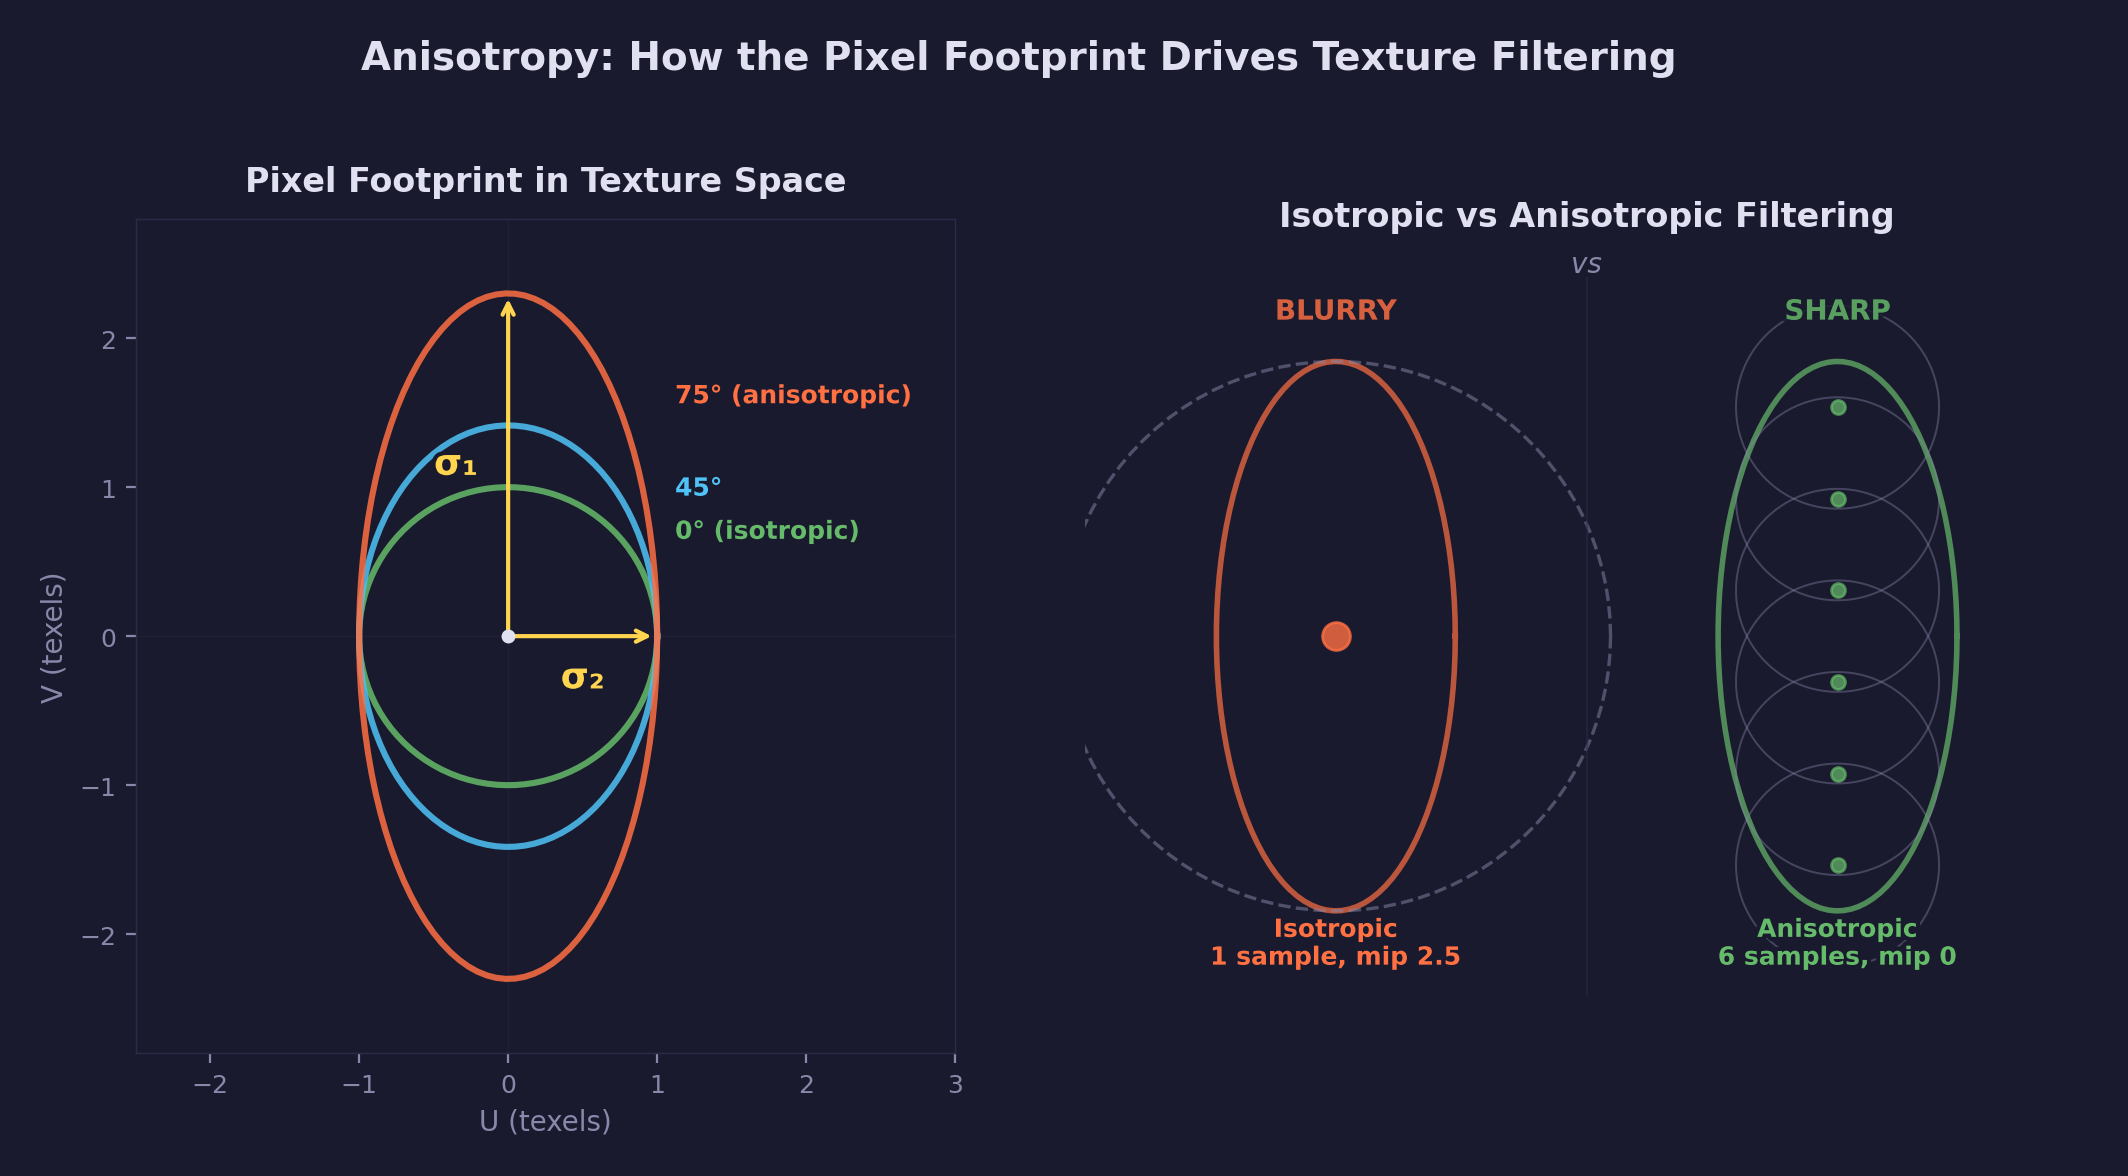
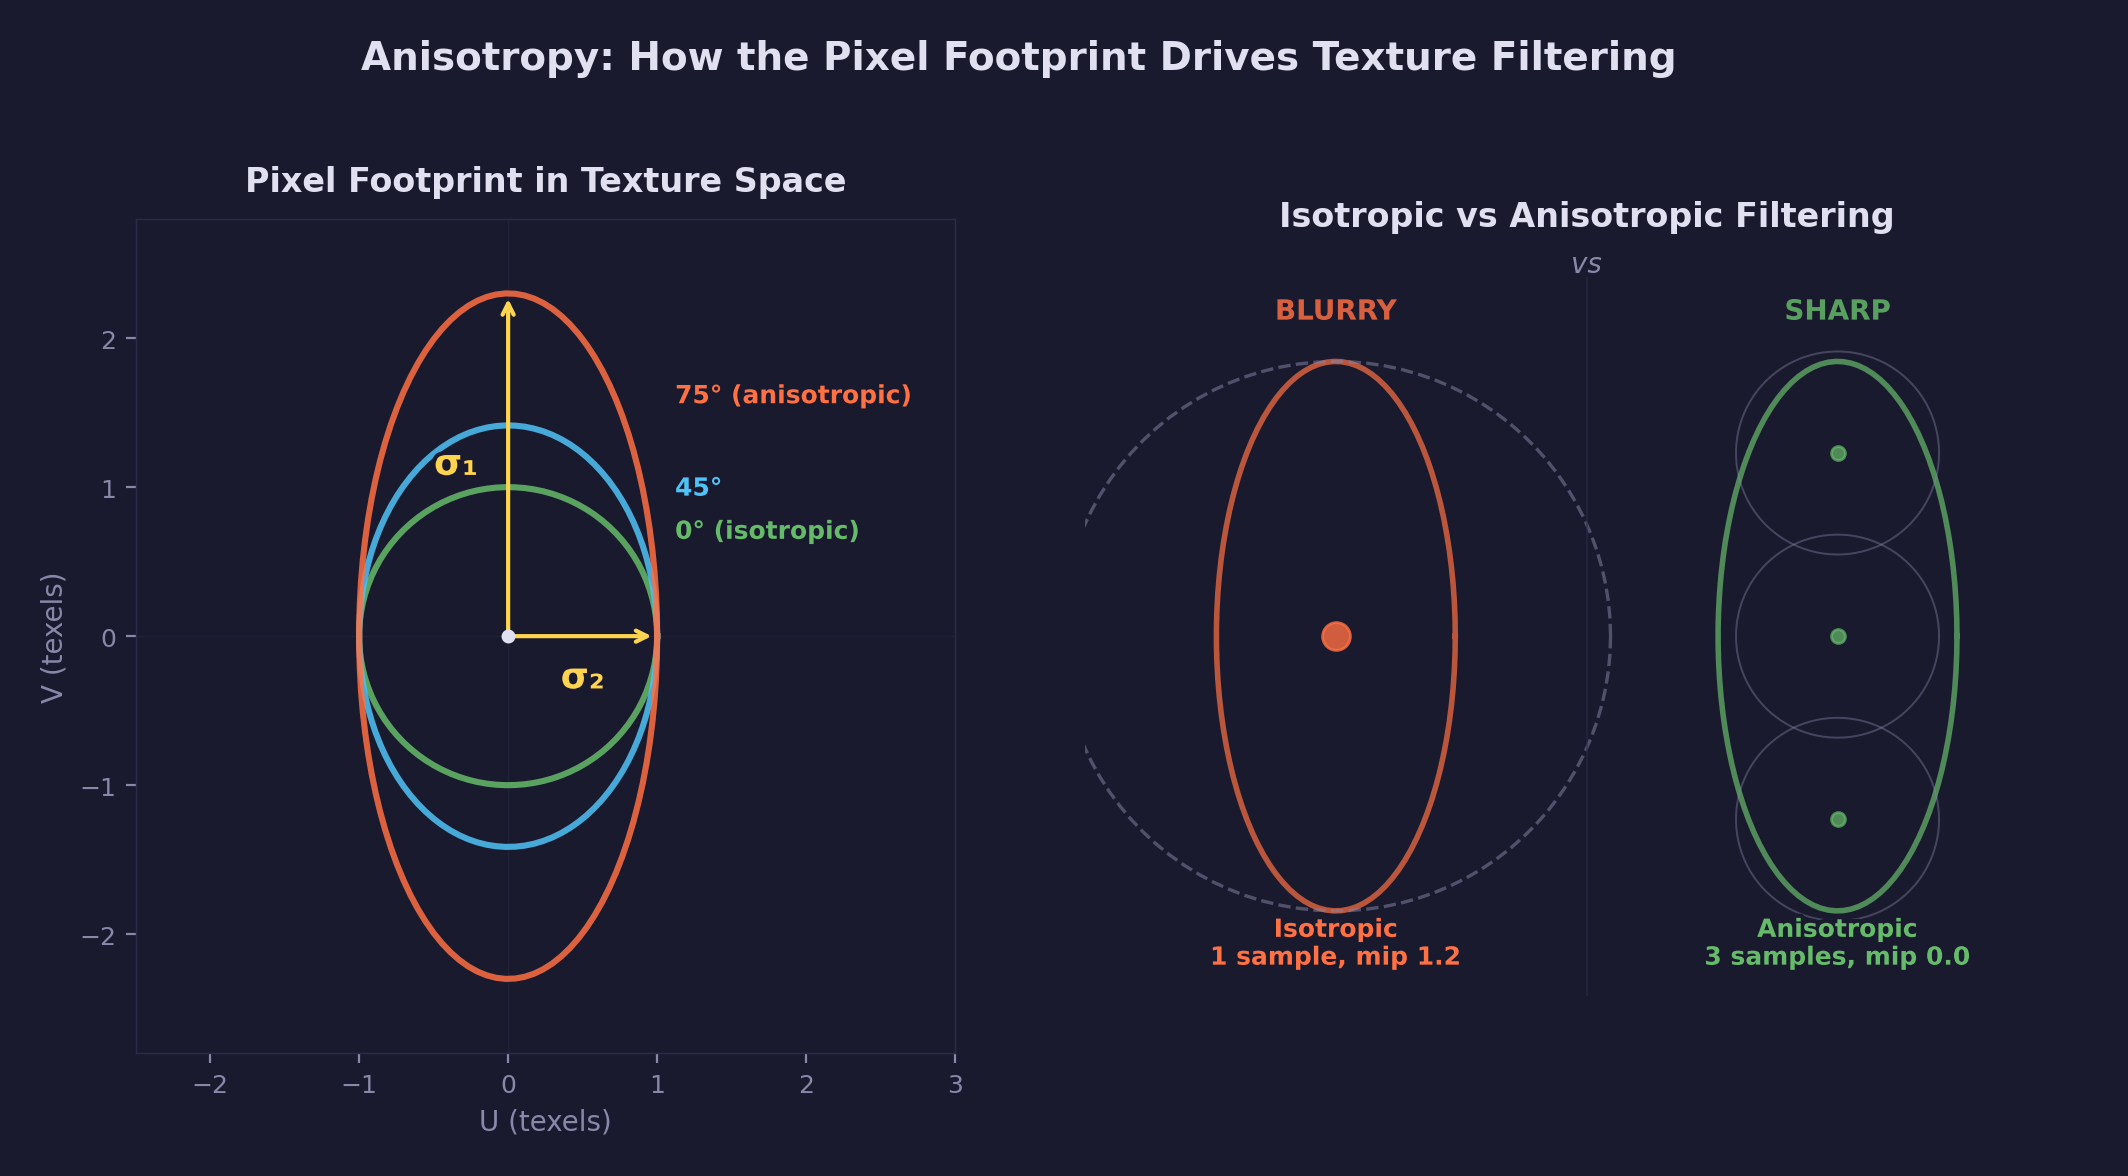
Use named constants and derive diagram values from sigmas
Replace magic literal 1e-7f with FORGE_EPSILON in mat2_anisotropy_ratio
for consistency with other float comparisons in the math library.

Derive mip level and sample count in the pixel footprint diagram from
the computed sigma values instead of hard-coding "mip 2.5" / 6 samples.

diff --git a/scripts/forge_diagrams.py b/scripts/forge_diagrams.py
@@ -1757,10 +1757,11 @@ def diagram_pixel_footprint():
         zorder=5,
         alpha=0.8,
     )
+    mip_iso = np.log2(sigma_v)
     ax2.text(
         offset_l,
         -sigma_v - 0.45,
-        "Isotropic\n1 sample, mip 2.5",
+        f"Isotropic\n1 sample, mip {mip_iso:.1f}",
         color=STYLE["accent2"],
         fontsize=9,
         ha="center",
@@ -1781,7 +1782,7 @@ def diagram_pixel_footprint():
 
     # Right half: anisotropic (multiple small samples along major axis)
     ax2.plot(ex + offset_r, ey, "-", color=STYLE["accent3"], lw=2, alpha=0.7)
-    n_samples = 6
+    n_samples = max(1, int(np.ceil(sigma_v / sigma_u)))
     for i in range(n_samples):
         t = (i + 0.5) / n_samples
         sy = -sigma_v + 2 * sigma_v * t
@@ -1802,10 +1803,11 @@ def diagram_pixel_footprint():
             zorder=5,
             alpha=0.7,
         )
+    mip_aniso = np.log2(max(sigma_u, 1e-6))
     ax2.text(
         offset_r,
         -sigma_v - 0.45,
-        f"Anisotropic\n{n_samples} samples, mip 0",
+        f"Anisotropic\n{n_samples} samples, mip {mip_aniso:.1f}",
         color=STYLE["accent3"],
         fontsize=9,
         ha="center",

diff --git a/common/math/forge_math.h b/common/math/forge_math.h
@@ -1014,7 +1014,7 @@ static inline vec2 mat2_singular_values(mat2 m)
 static inline float mat2_anisotropy_ratio(mat2 m)
 {
     vec2 sv = mat2_singular_values(m);
-    if (sv.y < 1e-7f) return 1.0f;  /* degenerate — avoid division by zero */
+    if (sv.y < FORGE_EPSILON) return 1.0f;  /* degenerate — avoid division by zero */
     return sv.x / sv.y;
 }
 
